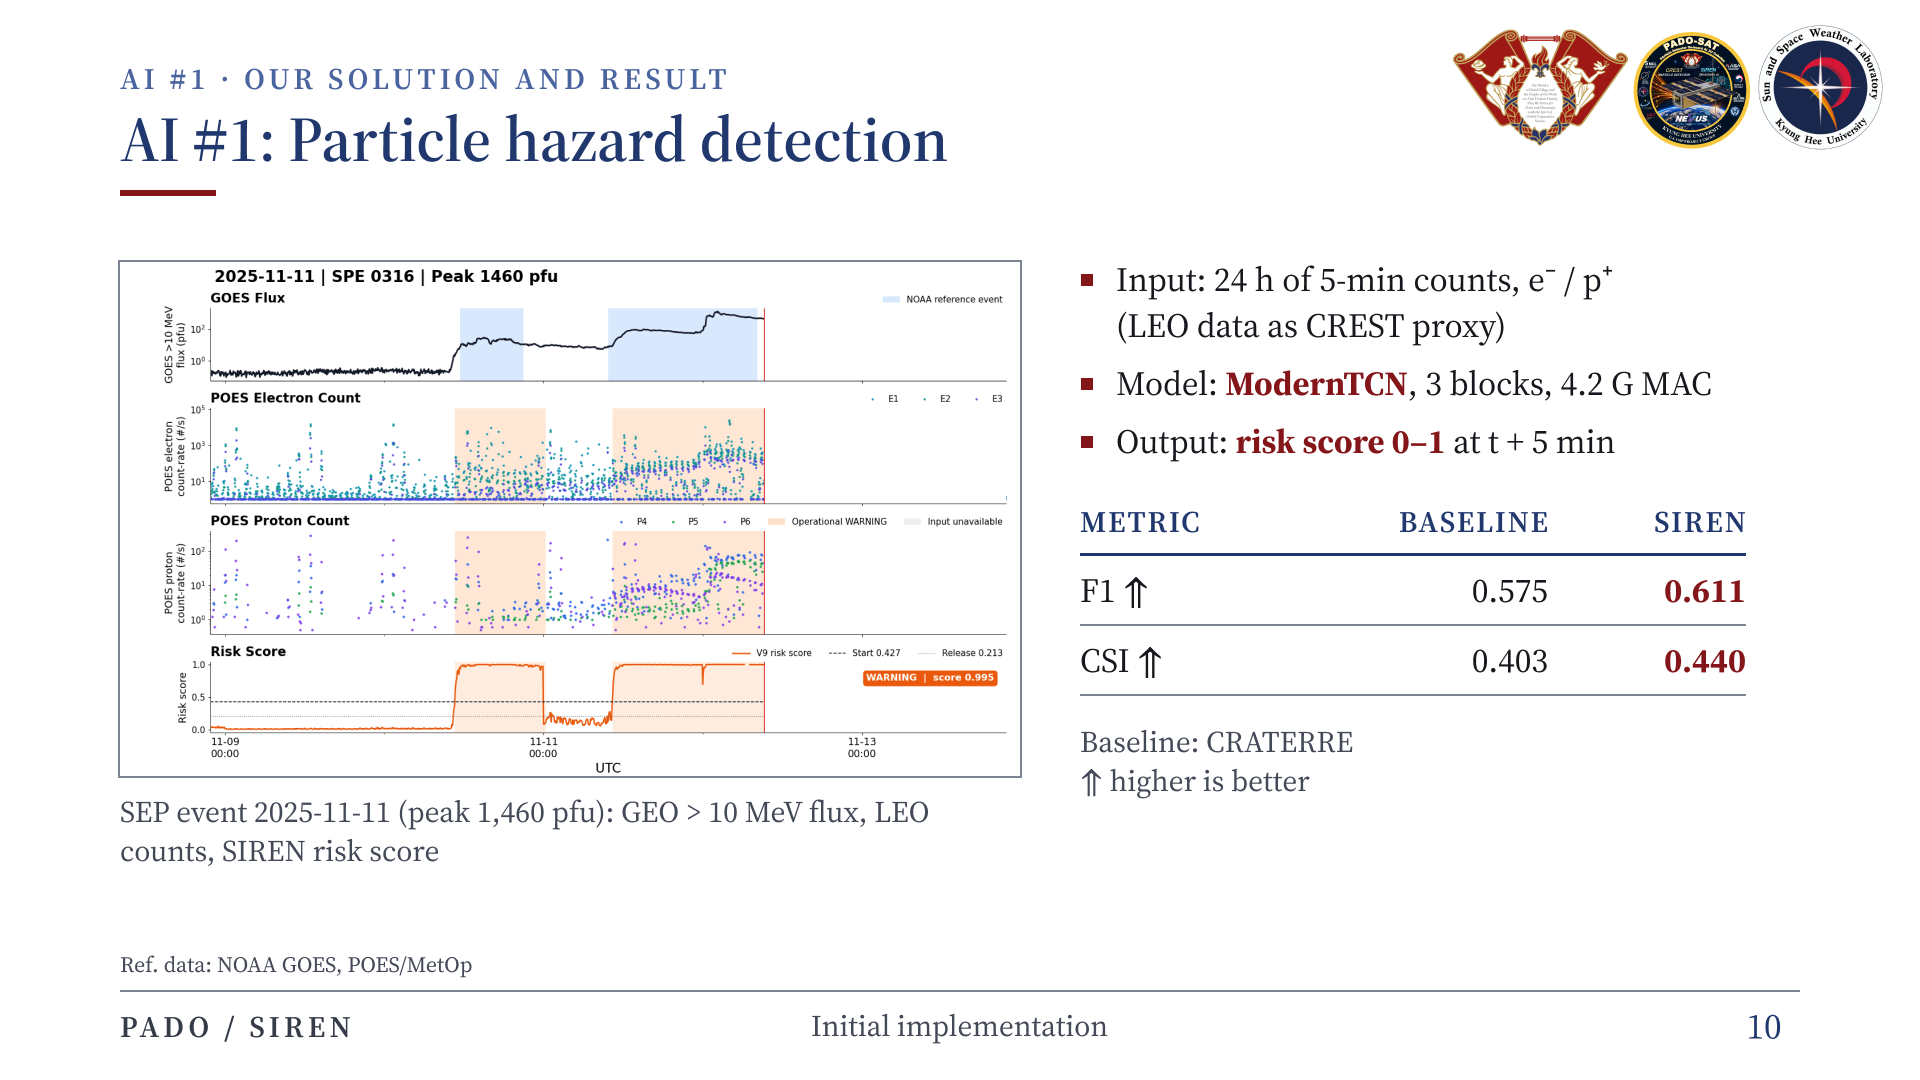
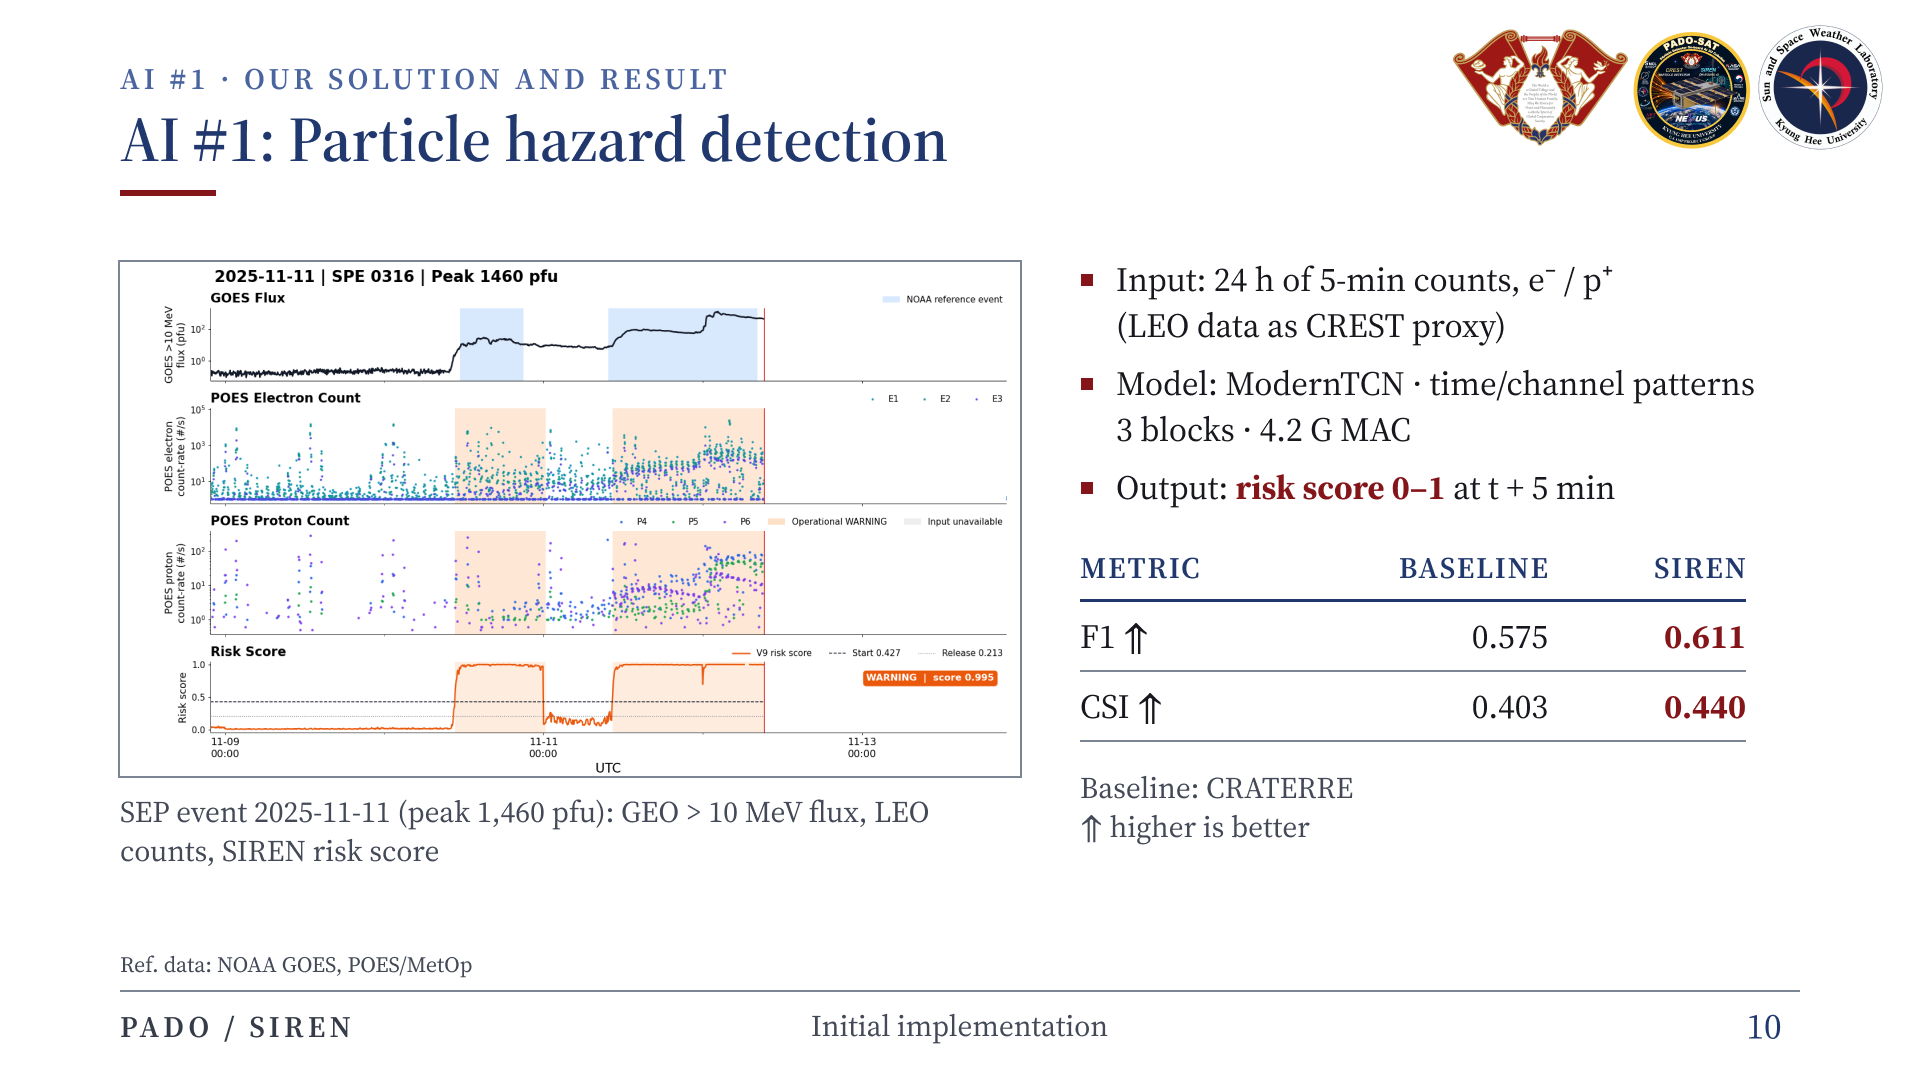
Clarify temporal and multichannel context in AI slides

Changed region(s): [[0.5625, 0.3667, 0.9062, 0.7944], [0.625, 0.3361, 0.9062, 0.3667]]

diff --git a/README.md b/README.md
@@ -16,7 +16,7 @@ PADO-SAT의 온보드 AI 탑재체 SIREN 발표 자료입니다.
 
 ### 03. PADO-SAT: mission overview
 
-![Slide 03: PADO-SAT: mission overview](assets/slides/03.png?v=72b4337052f0)
+![Slide 03: PADO-SAT: mission overview](assets/slides/03.png?v=af4f61f14f05)
 
 ### 04. Goal of SIREN
 
@@ -24,7 +24,7 @@ PADO-SAT의 온보드 AI 탑재체 SIREN 발표 자료입니다.
 
 ### 05. System budget from SIREN’s perspective
 
-![Slide 05: System budget from SIREN’s perspective](assets/slides/05.png?v=9160247f8cff)
+![Slide 05: System budget from SIREN’s perspective](assets/slides/05.png?v=5d90f12e81ca)
 
 ### 06. FPGA COTS platform: Z7000-P3
 
@@ -44,7 +44,7 @@ PADO-SAT의 온보드 AI 탑재체 SIREN 발표 자료입니다.
 
 ### 10. AI #1: Particle hazard detection
 
-![Slide 10: AI #1: Particle hazard detection](assets/slides/10.png?v=7feb1a6919fd)
+![Slide 10: AI #1: Particle hazard detection](assets/slides/10.png?v=62d9df59404e)
 
 ### 11. Anomalies in Satellite Housekeeping Data
 
@@ -52,7 +52,7 @@ PADO-SAT의 온보드 AI 탑재체 SIREN 발표 자료입니다.
 
 ### 12. AI #2: HK anomaly detection
 
-![Slide 12: AI #2: HK anomaly detection](assets/slides/12.png?v=9a1572ce5dec)
+![Slide 12: AI #2: HK anomaly detection](assets/slides/12.png?v=d20f1d39b221)
 
 ### 13. Satellite Downlink Constraints
 
@@ -68,7 +68,7 @@ PADO-SAT의 온보드 AI 탑재체 SIREN 발표 자료입니다.
 
 ### 16. Implementation & Performance
 
-![Slide 16: Implementation & Performance](assets/slides/16.png?v=328c78554aea)
+![Slide 16: Implementation & Performance](assets/slides/16.png?v=68de86c51850)
 
 ### 17. Future Work and Summary
 
@@ -76,7 +76,7 @@ PADO-SAT의 온보드 AI 탑재체 SIREN 발표 자료입니다.
 
 ### 18. Future Work
 
-![Slide 18: Future Work](assets/slides/18.png?v=590b0f575218)
+![Slide 18: Future Work](assets/slides/18.png?v=dc8d08227f1a)
 
 ### 19. Summary
 
